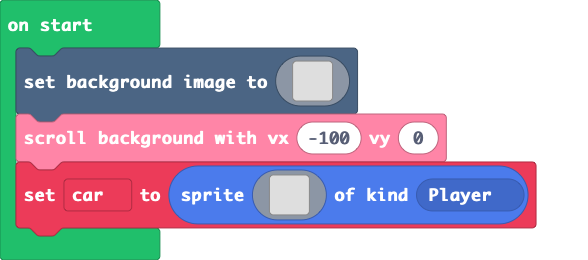
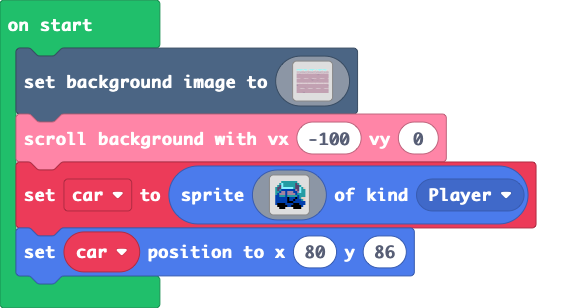
Update main.blocks, main.ts

diff --git a/main.ts b/main.ts
@@ -139,3 +139,4 @@ let car = sprites.create(img`
     . . . f f f . . . . f f f f . . 
     . . . . . . . . . . . . . . . . 
     `, SpriteKind.Player)
+car.setPosition(80, 86)
